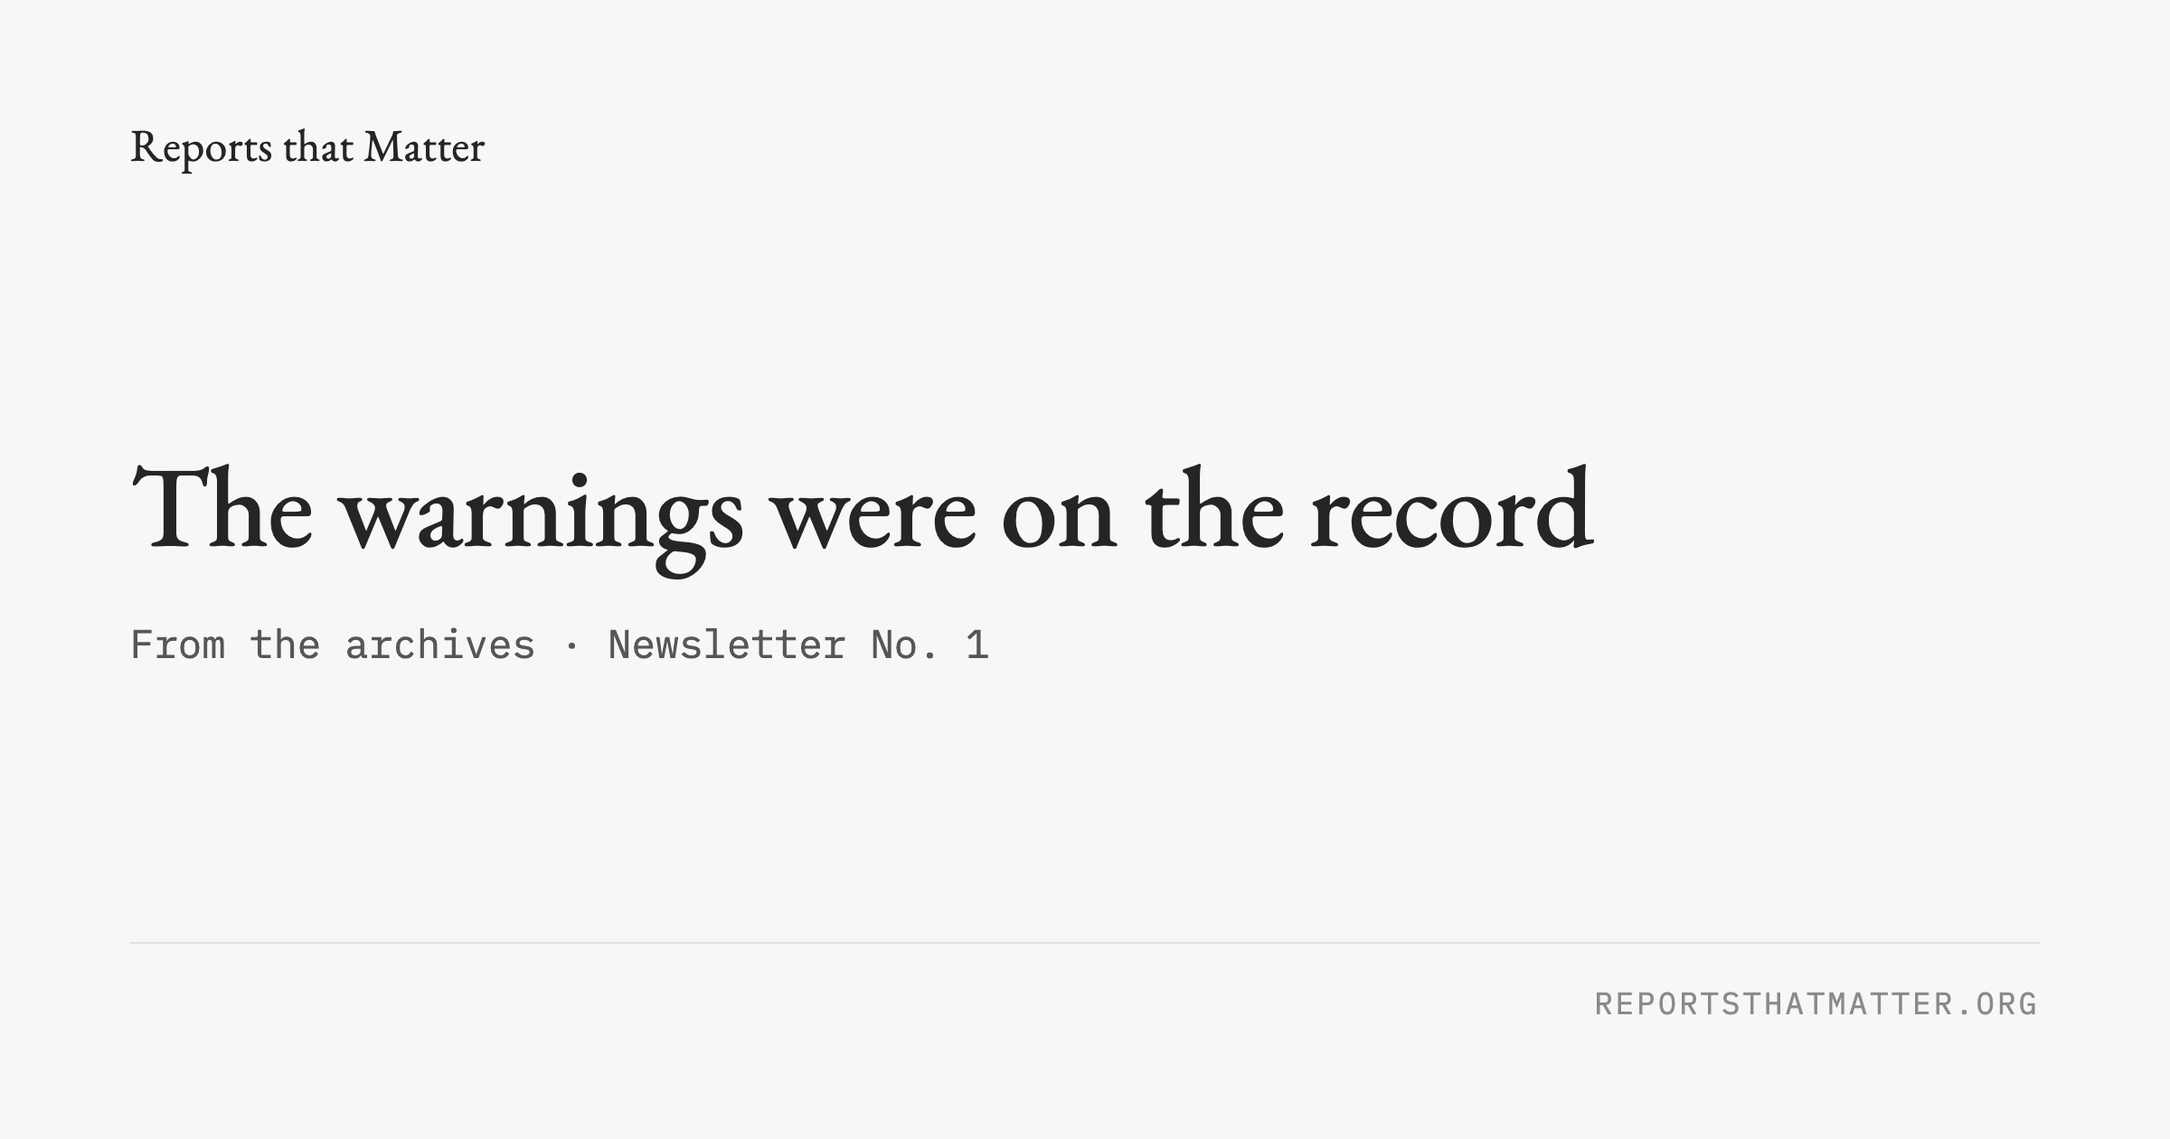
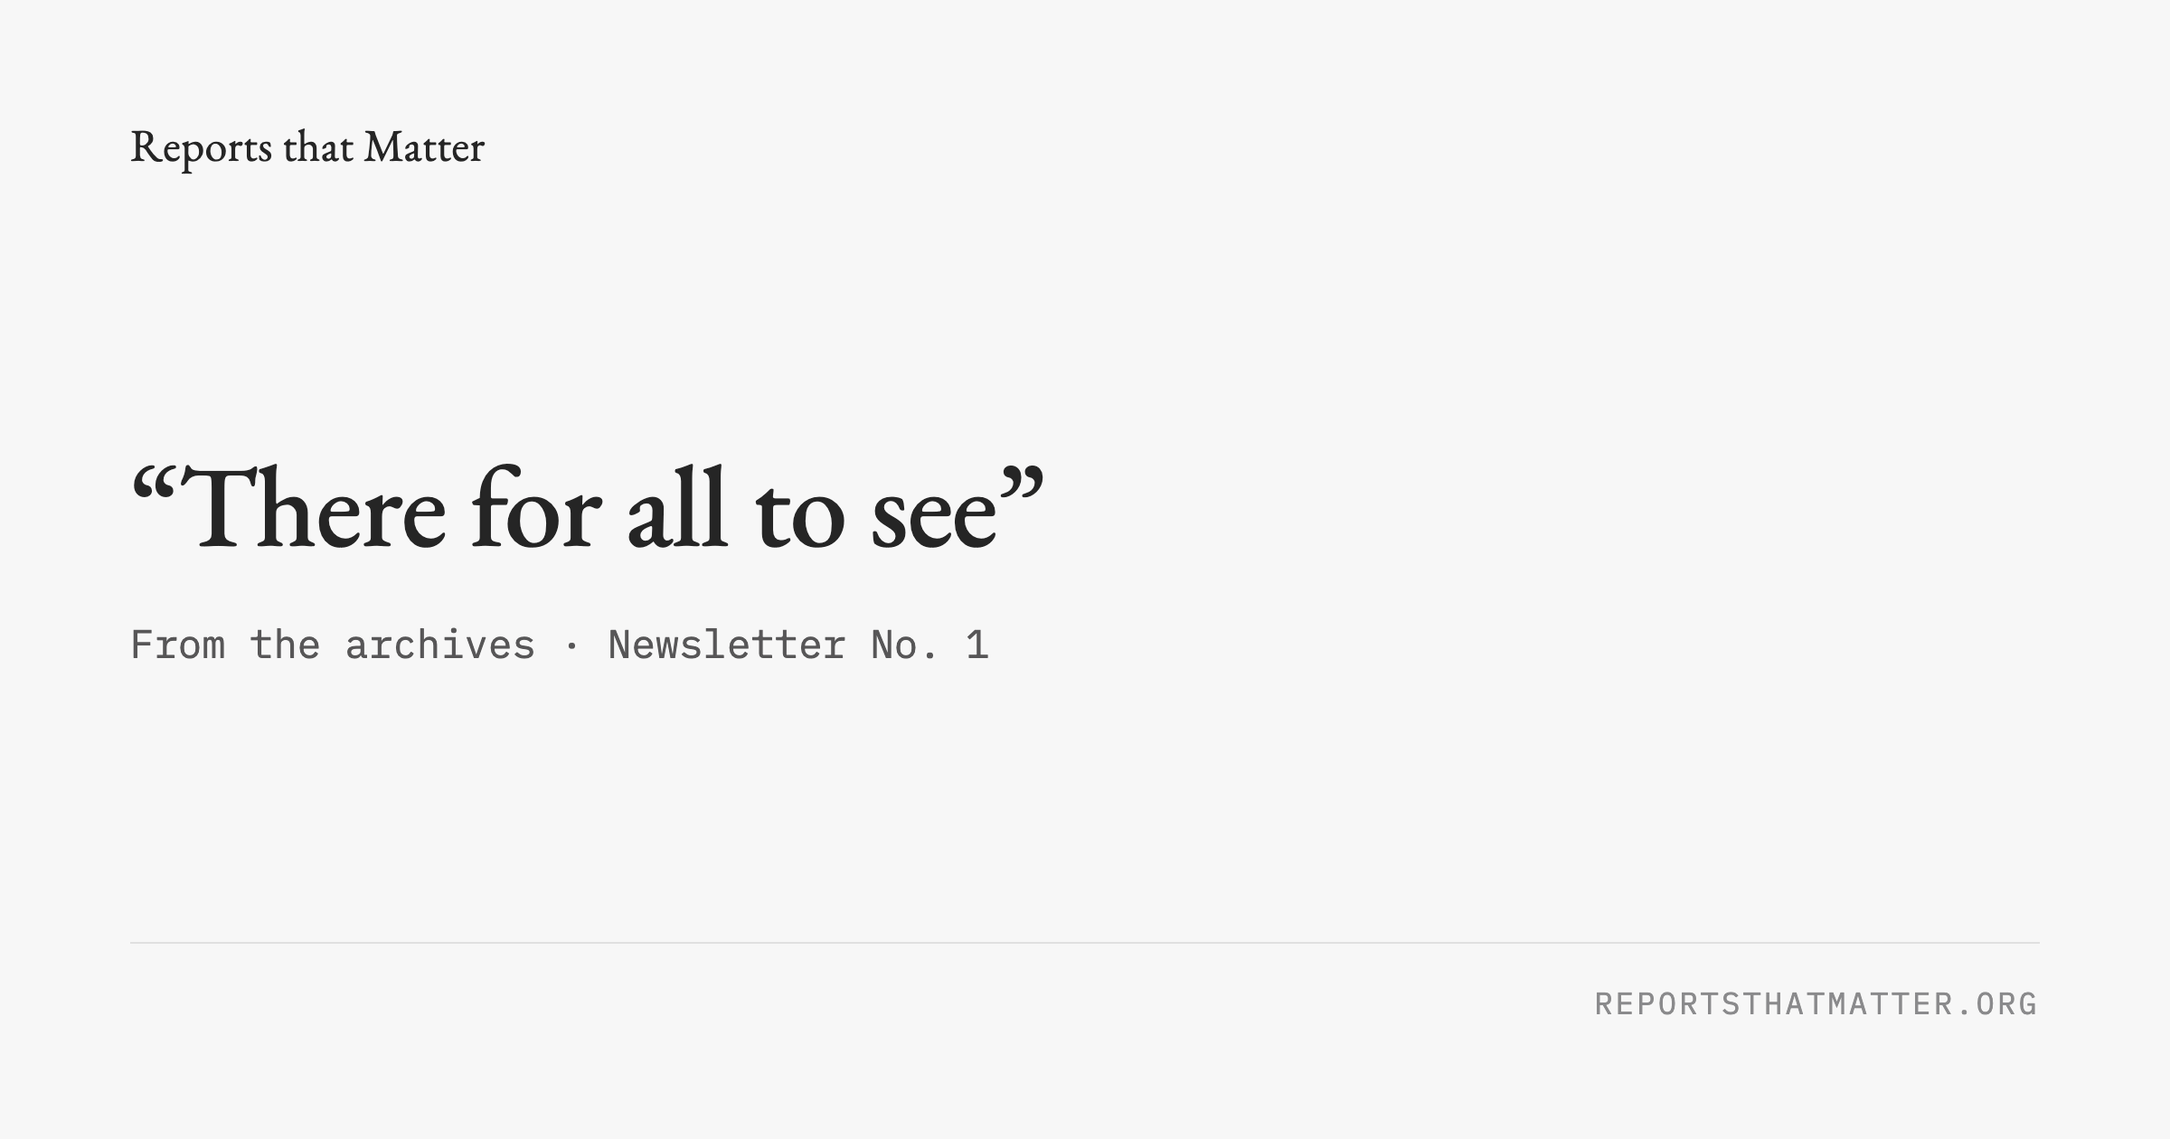
Review fixes: same-site check, 4 KB cap, honeypot rename, CSV formula guard, export path, ledger label, focus outline, --blog/--highlights refused; issue 1 copy checked against sources
Claude-Session: https://claude.ai/code/session_016nGqu8qRXepYMzWYpLhjsz

Changed region(s): [[0.0625, 0.4024, 0.75, 0.4952]]

diff --git a/tests/subscribe.test.ts b/tests/subscribe.test.ts
@@ -63,7 +63,7 @@ describe("parseSubscription", () => {
   });
 
   it("flags a filled honeypot", () => {
-    expect(parseSubscription({ email: "bot@example.org", website: "http://spam" })?.spam).toBe(true);
+    expect(parseSubscription({ email: "bot@example.org", rtm_hp: "http://spam" })?.spam).toBe(true);
   });
 });
 
@@ -111,9 +111,32 @@ describe("POST /api/subscribe", () => {
 
   it("thanks a bot that filled the honeypot, and stores nothing", async () => {
     const { db, rows } = fakeDb();
-    const res = await app.request("http://localhost/api/subscribe", form({ email: "bot@example.org", website: "x" }), { DB: db });
+    const res = await app.request("http://localhost/api/subscribe", form({ email: "bot@example.org", rtm_hp: "x" }), { DB: db });
     expect(res.headers.get("location")).toBe("/newsletter?subscribed");
     expect(rows).toEqual([]);
+  });
+
+  it("refuses a post from another site, and an oversized body", async () => {
+    const { db, rows } = fakeDb();
+    const cross = await app.request(
+      "http://localhost/api/subscribe",
+      { ...form({ email: "victim@example.org" }), headers: { "content-type": "application/x-www-form-urlencoded", origin: "https://evil.example", "sec-fetch-site": "cross-site" } },
+      { DB: db }
+    );
+    expect(cross.status).toBe(403);
+    const same = await app.request(
+      "http://localhost/api/subscribe",
+      { ...form({ email: "reader@example.org" }), headers: { "content-type": "application/x-www-form-urlencoded", origin: "http://localhost", "sec-fetch-site": "same-origin" } },
+      { DB: db }
+    );
+    expect(same.status).toBe(303);
+    const big = await app.request(
+      "http://localhost/api/subscribe",
+      { ...form({ email: "reader2@example.org", pad: "x".repeat(5000) }), headers: { "content-type": "application/x-www-form-urlencoded", "content-length": "5100" } },
+      { DB: db }
+    );
+    expect(big.status).toBe(413);
+    expect(rows.map((row) => row.email)).toEqual(["reader@example.org"]);
   });
 
   it("says try later when the table is missing (migration 0006 not applied)", async () => {
@@ -156,7 +179,7 @@ describe("the signup on the site", () => {
     expect(page).toContain("contact@reportsthatmatter.org");
     expect(page).not.toContain("noindex");
     const thanks = await (await app.request("http://localhost/newsletter?subscribed")).text();
-    expect(thanks).toContain("you are on the list");
+    expect(thanks).toContain("asking you to confirm");
     expect(thanks).toContain("noindex");
     const unknown = await (await app.request("http://localhost/newsletter?error=<b>")).text();
     expect(unknown).not.toContain("signup-notice");
@@ -169,6 +192,10 @@ describe("the signup on the site", () => {
 });
 
 describe("subscribersCsv", () => {
+  it("keeps a formula-looking cell as text", () => {
+    expect(subscribersCsv([{ email: "=cmd@example.org", source: "home", created_at: 0, status: "unconfirmed" }])).toContain("\n'=cmd@example.org,");
+  });
+
   it("writes a header and quotes what needs it", () => {
     expect(subscribersCsv([{ email: "a@example.org", source: "home", created_at: 0, status: "unconfirmed" }])).toBe(
       "email,subscribed_at,source,status\na@example.org,1970-01-01T00:00:00.000Z,home,unconfirmed\n"

diff --git a/src/templates/newsletter.ts b/src/templates/newsletter.ts
@@ -15,7 +15,7 @@ export const SIGNUP_SCRIPT = "/assets/signup.js";
 
 /** One line, under every form: what we keep and what happens next. The full version is on /newsletter and /about. */
 export const SIGNUP_PRIVACY =
-  "We keep your address and where you signed up, nothing else, and use it only for this newsletter. Before the first issue you get one email asking you to confirm; every issue has an unsubscribe link.";
+  "We keep your address, and when and where on the site you signed up; nothing else, and only for this newsletter. Before the first issue you get one email asking you to confirm; every issue has an unsubscribe link.";
 
 export const NEWSLETTER_PITCH =
   "A few passages worth reading again, sometimes tied to the date or the news, each linked to its place in the report.";
@@ -43,7 +43,7 @@ function signupForm(source: string): string {
       <input type="hidden" name="source" value="${escapeHtml(source)}" />
       <label class="visually-hidden" for="signup-email">Email address</label>
       <input type="email" id="signup-email" name="email" required autocomplete="email" maxlength="254" placeholder="you@example.org" />
-      <div class="signup-trap" aria-hidden="true"><label>Leave this empty <input type="text" name="website" tabindex="-1" autocomplete="off" /></label></div>
+      <div class="signup-trap" aria-hidden="true"><label>Leave this empty <input type="text" name="rtm_hp" tabindex="-1" autocomplete="off" /></label></div>
       <button type="submit">Subscribe</button>
     </form>
     <p class="signup-status" role="status" aria-live="polite"></p>
@@ -53,7 +53,7 @@ function signupForm(source: string): string {
 export type SignupOutcome = "subscribed" | "invalid" | "unavailable" | undefined;
 
 const OUTCOME_TEXT: Record<Exclude<SignupOutcome, undefined>, string> = {
-  subscribed: "Thank you: you are on the list. Look out for one email asking you to confirm, before the first issue.",
+  subscribed: "Thank you. Before the first issue you will get one email asking you to confirm; the list is only those who do.",
   invalid: "That does not look like an email address. Please check it and try again.",
   unavailable: "Sorry, we could not save that just now. Please try again in a few minutes.",
 };
@@ -100,7 +100,7 @@ export function renderNewsletterPage(issues: Post[], outcome?: SignupOutcome): s
       network address or browser, and we do not use your address for anything but this newsletter. We will never sell it, or give it to anyone but the mailing service that sends the newsletter.</p>
       <p>The list is held on the same Cloudflare database as the rest of the site until we send the first issue. The
       newsletter will then be sent by a mailing service, which emails you once to ask you to confirm before you
-      receive anything; if you do not confirm, your address is deleted. Every issue has an unsubscribe link.</p>
+      receive anything; we delete addresses that are not confirmed. Every issue has an unsubscribe link.</p>
     <p>To be removed at any time, or to ask what we hold, write to <a href="mailto:${CONTACT_EMAIL}">${CONTACT_EMAIL}</a>.</p>
   </div>
 </main>`;

diff --git a/src/lib/subscribe.ts b/src/lib/subscribe.ts
@@ -11,6 +11,26 @@ export type Subscription = { email: string; source: string };
 
 export type SubscribeResult = "ok" | "invalid" | "unavailable";
 
+/** A signup body is a few hundred bytes; anything much larger is not a form we rendered. */
+export const MAX_BODY_BYTES = 4096;
+
+/**
+ * Only our own pages may post a signup: a cross-site form or script posting to us is refused. Browsers send
+ * `Sec-Fetch-Site` (and `Origin` on a POST); a request with neither (curl, a test) is let through, since the
+ * check is against other sites signing strangers up from their pages, not against a determined script.
+ */
+export function isSameSite(requestUrl: string, origin: string | undefined, fetchSite: string | undefined): boolean {
+  if (fetchSite && fetchSite !== "same-origin" && fetchSite !== "same-site" && fetchSite !== "none") return false;
+  if (origin && origin !== "null") {
+    try {
+      return new URL(origin).host === new URL(requestUrl).host;
+    } catch {
+      return false;
+    }
+  }
+  return true;
+}
+
 /** RFC 5321 caps a path at 254 characters; anything longer is not an address we could ever send to. */
 const MAX_EMAIL = 254;
 
@@ -37,7 +57,7 @@ export function normaliseSource(value: unknown): string {
 
 /**
  * A signup from a form body (urlencoded or JSON, already parsed to a record). `null` when the address is
- * missing or malformed. The hidden `website` field is a honeypot: a person never sees it, a form-filling bot
+ * missing or malformed. The hidden `rtm_hp` field is a honeypot: a person never sees it, a form-filling bot
  * fills it, and its signup is accepted (so it learns nothing) but never stored — `spam: true`.
  */
 export function parseSubscription(body: Record<string, unknown>): (Subscription & { spam: boolean }) | null {
@@ -45,7 +65,7 @@ export function parseSubscription(body: Record<string, unknown>): (Subscription 
   if (typeof raw !== "string") return null;
   const email = normaliseEmail(raw);
   if (!isValidEmail(email)) return null;
-  const honeypot = body.website;
+  const honeypot = body.rtm_hp;
   return {
     email,
     source: normaliseSource(body.source),
@@ -73,7 +93,11 @@ export async function recordSubscription(db: MarksDB | undefined, sub: Subscript
 
 /** A list as the provider's CSV import reads it: email, then when and where they signed up. */
 export function subscribersCsv(rows: Array<{ email: string; source: string; created_at: number; status: string }>): string {
-  const cell = (value: string) => (/[",\n]/.test(value) ? `"${value.replace(/"/g, '""')}"` : value);
+  // A leading = + - @ would be a formula to a spreadsheet opening the file: prefix ' so it stays text.
+  const cell = (raw: string) => {
+    const value = /^[=+\-@]/.test(raw) ? `'${raw}` : raw;
+    return /[",\n]/.test(value) ? `"${value.replace(/"/g, '""')}"` : value;
+  };
   const lines = rows.map((row) =>
     [row.email, new Date(row.created_at).toISOString(), row.source, row.status].map((value) => cell(String(value))).join(",")
   );

diff --git a/scripts/lib/d1.ts b/scripts/lib/d1.ts
@@ -15,7 +15,8 @@ export type Meta = { rows_read?: number; rows_written?: number; changes?: number
 export type Statement = { results: Array<Record<string, unknown>>; meta: Meta; success?: boolean };
 
 /** Runs SQL against a D1 database and returns wrangler's parsed `--json` output (one entry per statement). */
-export type Runner = (target: Target, sql: { command: string } | { file: string }) => Statement[];
+/** `label` replaces the SQL in the usage ledger, for a statement that carries personal data (pnpm subscribers remove). */
+export type Runner = (target: Target, sql: ({ command: string } | { file: string }) & { label?: string }) => Statement[];
 
 /** Thrown by `wranglerRunner` for a `--remote` call its caller did not confirm. */
 export class RemoteNotConfirmed extends Error {}
@@ -40,7 +41,7 @@ export const wranglerRunner = (cwd: string, { confirmed = false }: { confirmed?:
   // wrangler may print informational lines before the JSON array.
   const result: Statement[] = JSON.parse(out.slice(out.indexOf("[")));
   // Every remote call goes in the shared ledger of today's D1 usage (lib/d1-usage.ts).
-  if (target === "--remote") recordUsage({ label: "command" in sql ? sql.command : `file ${sql.file}`, ...metaTotals(result) });
+  if (target === "--remote") recordUsage({ label: sql.label ?? ("command" in sql ? sql.command : `file ${sql.file}`), ...metaTotals(result) });
   return result;
 };
 

diff --git a/src/index.ts b/src/index.ts
@@ -3,7 +3,7 @@ import { resolveParagraph, resolveSection } from "./lib/aliases";
 import { loadRegistry } from "./lib/registry";
 import { loadChangelog, loadPostFiles } from "./lib/source";
 import { parsePosts, visiblePosts, findPost, isPublished, publishedIssues } from "./lib/blog";
-import { parseSubscription, recordSubscription } from "./lib/subscribe";
+import { parseSubscription, recordSubscription, isSameSite, MAX_BODY_BYTES } from "./lib/subscribe";
 import { renderNewsletterPage, signupMessage, type SignupOutcome } from "./templates/newsletter";
 import { renderBlogIndex, renderPostPage, renderAtomFeed } from "./templates/blog";
 import { renderIndex, renderReportsIndex } from "./templates/index";
@@ -490,6 +490,8 @@ app.get("/newsletter", async (c) => {
  */
 app.post("/api/subscribe", async (c) => {
   const wantsJson = (c.req.header("accept") ?? "").includes("application/json");
+  if (!isSameSite(c.req.url, c.req.header("origin"), c.req.header("sec-fetch-site"))) return c.text("Forbidden", 403);
+  if (Number(c.req.header("content-length") ?? 0) > MAX_BODY_BYTES) return c.text("Payload too large", 413);
   let body: Record<string, unknown> = {};
   try {
     body = (c.req.header("content-type") ?? "").includes("application/json")

diff --git a/assets/styles.css b/assets/styles.css
@@ -1837,6 +1837,12 @@ html.passage-landing body {
   border-color: var(--ink);
 }
 
+.signup-form input[type="email"]:focus-visible,
+.signup-form button:focus-visible {
+  outline: 2px solid var(--ink);
+  outline-offset: 2px;
+}
+
 .signup-form button {
   font-family: var(--mono);
   font-size: 0.72rem;

diff --git a/content/posts/from-the-archives-1.md b/content/posts/from-the-archives-1.md
@@ -1,5 +1,5 @@
 ---
-title: "From the archives, No. 1: the warnings were on the record"
+title: "From the archives, No. 1: “There for all to see”"
 date: "2026-11-03"
 author: "Reports that Matter"
 summary: "The first monthly newsletter from Reports that Matter: five passages from five inquiries that found the danger had been visible, written down, sometimes said out loud, long before the collapse."
@@ -8,13 +8,13 @@ issue: 1
 review:
   - "DECISION: send date. Drafted for Tuesday 3 November 2026, a week after the public launch; change the date before publishing. The Leveson anniversary line ('this month') only holds for a November issue."
   - "Link the launch announcement in the opening paragraph once launch-pack's post has a slug (replace the plain 'launched last week')."
-  - "The quotes and their ?p=/&h= links are copied from marketing/queue.yaml (checked by pnpm marks check), with src=newsletter. Context lines are ours: check them, especially that Madelyn Antoncic was Lehman's chief risk officer when she wrote the Lehman line."
+  - "The quotes and their ?p=/&h= links are copied from marketing/queue.yaml (checked by pnpm marks check), with src=newsletter. Context lines are ours and were checked against the reports' text and footnotes (Antoncic: CRO until 2007, email of 8 Apr 2008, footnote 440; PSI: S&P email chain of December 2006, p. 297)."
   - "This post is also the email. When a provider is chosen (decision 0033), paste the markdown body into it; the links already work outside the site."
 ---
 
 Reports that Matter launched last week: [eighteen public inquiries and investigations](/reports), every paragraph readable, searchable and citable by its own link. This is the first of a monthly letter from that archive. Each issue picks a few passages worth reading again, quotes them exactly, and links to the place in the report where they sit, so you can read what comes before and after.
 
-This month's theme runs through more of the archive than we expected. Report after report finds that the danger was not hidden. It was visible, written down, sometimes said out loud, long before the collapse.
+This month's passages share one finding. Looking back, each inquiry found that the signs were on the record long before the event, even where nobody read them that way at the time.
 
 ## "There for all to see almost from the very start"
 
@@ -22,7 +22,7 @@ Fourteen years ago this month, on 29 November 2012, Lord Justice Leveson publish
 
 > Although the system as constituted in this manner unravelled, in spectacular fashion, in July 2011, the inherent weakness was there for all to see almost from the very start.
 
-The "system" is the press's own regulation through the Press Complaints Commission; July 2011 is when the phone-hacking scandal at the News of the World broke open. [Read it in place, p. 1515 →](https://reportsthatmatter.org/reports/uk-leveson-inquiry?p=1-2-follows-from-criticisms&h=industry%20has%20with%20the%20PCC.%20|Although%20the%20system%20as%20constituted%20in%20this%20manner%20unravelled%2C%20in%20spectacular%20fashion%2C%20in%20July%202011%2C%20the%20inherent%20weakness%20was%20there%20for%20all%20to%20see%20almost%20from%20the%20very%20start.|&src=newsletter)
+The "system" is press self-regulation as a whole, built around the Press Complaints Commission; July 2011 is when the phone-hacking scandal at the News of the World broke open. [Read it in place, p. 1515 →](https://reportsthatmatter.org/reports/uk-leveson-inquiry?p=1-2-follows-from-criticisms&h=industry%20has%20with%20the%20PCC.%20|Although%20the%20system%20as%20constituted%20in%20this%20manner%20unravelled%2C%20in%20spectacular%20fashion%2C%20in%20July%202011%2C%20the%20inherent%20weakness%20was%20there%20for%20all%20to%20see%20almost%20from%20the%20very%20start.|&src=newsletter)
 
 ## "A slippery slope that resulted in catastrophe"
 
@@ -34,7 +34,7 @@ The paragraph goes on: "Each decision, taken by itself, seemed correct, routine,
 
 ## "Precisely when the need for regulatory oversight intensified"
 
-The National Commission on the BP Deepwater Horizon oil spill traced how the regulator's inspections thinned out as drilling moved into deeper water:
+The National Commission on the BP Deepwater Horizon Oil Spill and Offshore Drilling traced how the regulator's inspections thinned out as drilling moved into deeper water:
 
 > Precisely when the need for regulatory oversight intensified, the government's capacity for oversight diminished.
 
@@ -42,7 +42,7 @@ The National Commission on the BP Deepwater Horizon oil spill traced how the reg
 
 ## "Every one saw the train wreck coming"
 
-The examiner appointed in Lehman Brothers' bankruptcy quotes Lehman's own risk officer, looking back on the months before the firm failed in September 2008:
+The examiner appointed in Lehman Brothers' bankruptcy quotes Madelyn Antoncic, Lehman's chief risk officer until 2007, in an email of 8 April 2008, five months before the firm failed:
 
 > "every one saw the train wreck coming. 64k question is why didn't anyone get out of the way???"
 
@@ -50,7 +50,7 @@ The examiner appointed in Lehman Brothers' bankruptcy quotes Lehman's own risk o
 
 ## "This house of cards"
 
-The US Senate Permanent Subcommittee on Investigations, examining the financial crisis in 2011, quotes the credit rating agencies' own staff:
+The US Senate Permanent Subcommittee on Investigations, examining the financial crisis in 2011, quotes a December 2006 email chain among Standard & Poor's analysts rating a complex mortgage security:
 
 > One analyst wrote: "Rating agencies continue to create and [sic] even bigger monster – the CDO market. Let's hope we are all wealthy and retired by the time this house of cards falters."
 

diff --git a/docs/design/lessons/2026-10-24-cards-prune-empty-render.md b/docs/design/lessons/2026-10-24-cards-prune-empty-render.md
@@ -1,0 +1,4 @@
+---
+theme: tooling
+---
+- **A new mode flag on a script that prunes must be checked against every other mode flag: two "only" flags together can render nothing and prune everything** (2026-10-24, reportsthatmatter-k8qo, newsletter-blog) The reviewer found `pnpm cards --blog --highlights` would have rendered no card and then deleted every quote card as an orphan. `--blog` now refuses `--highlights`; a prune after an empty render should refuse on its own too. [status: done in #359]
